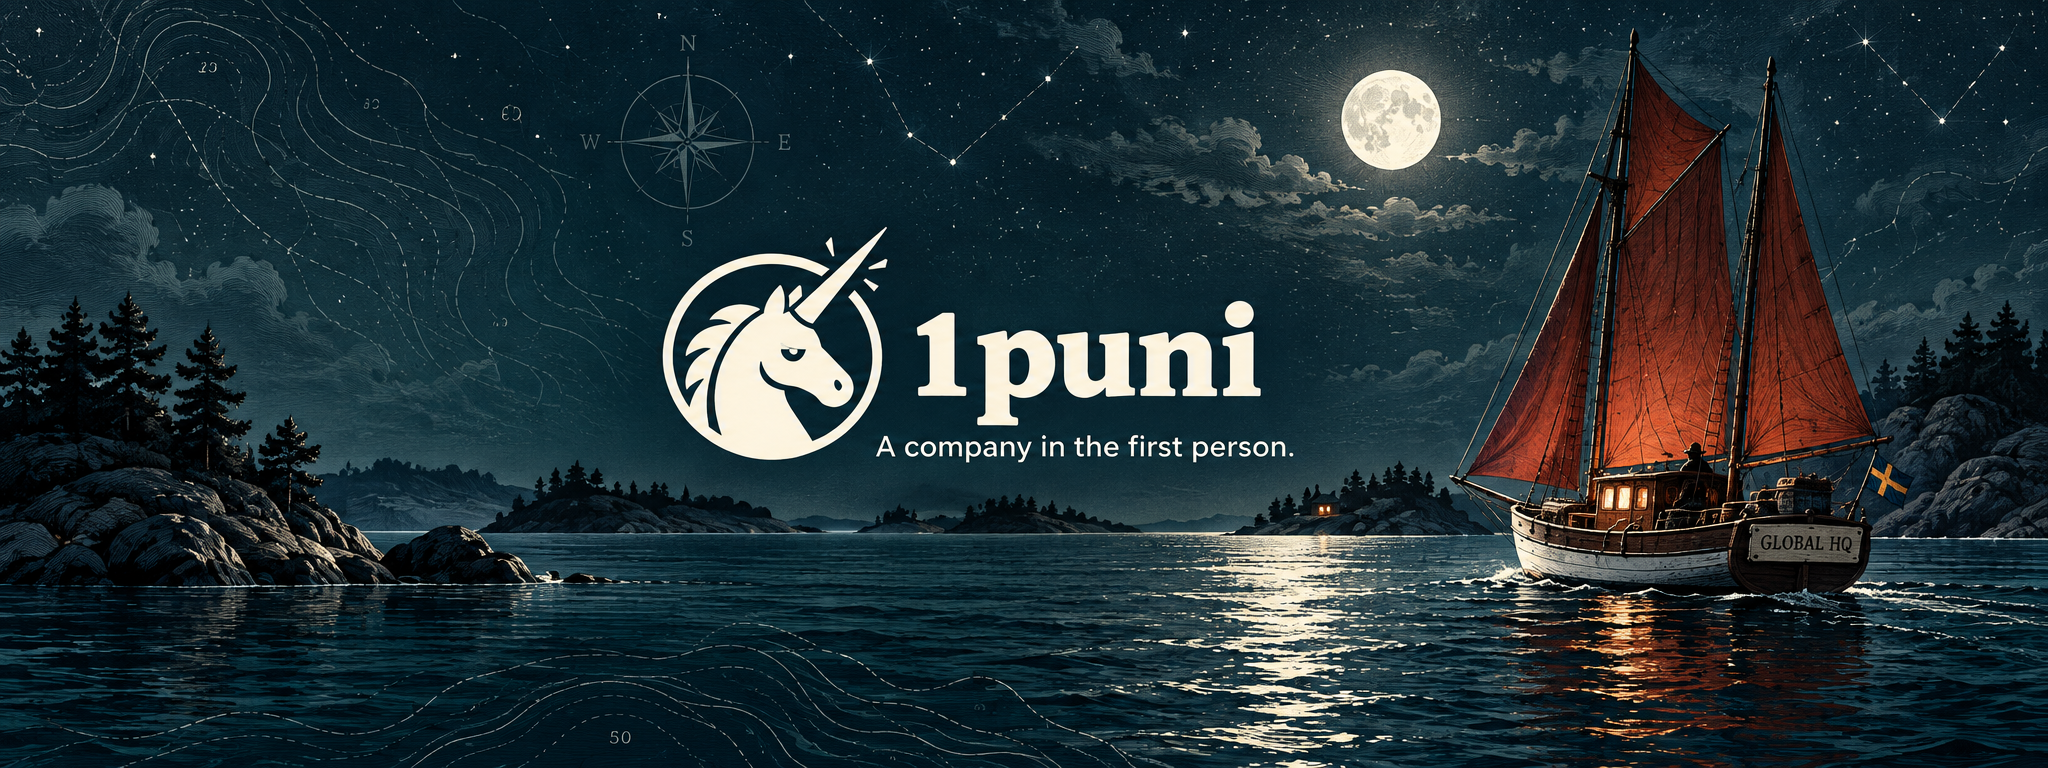
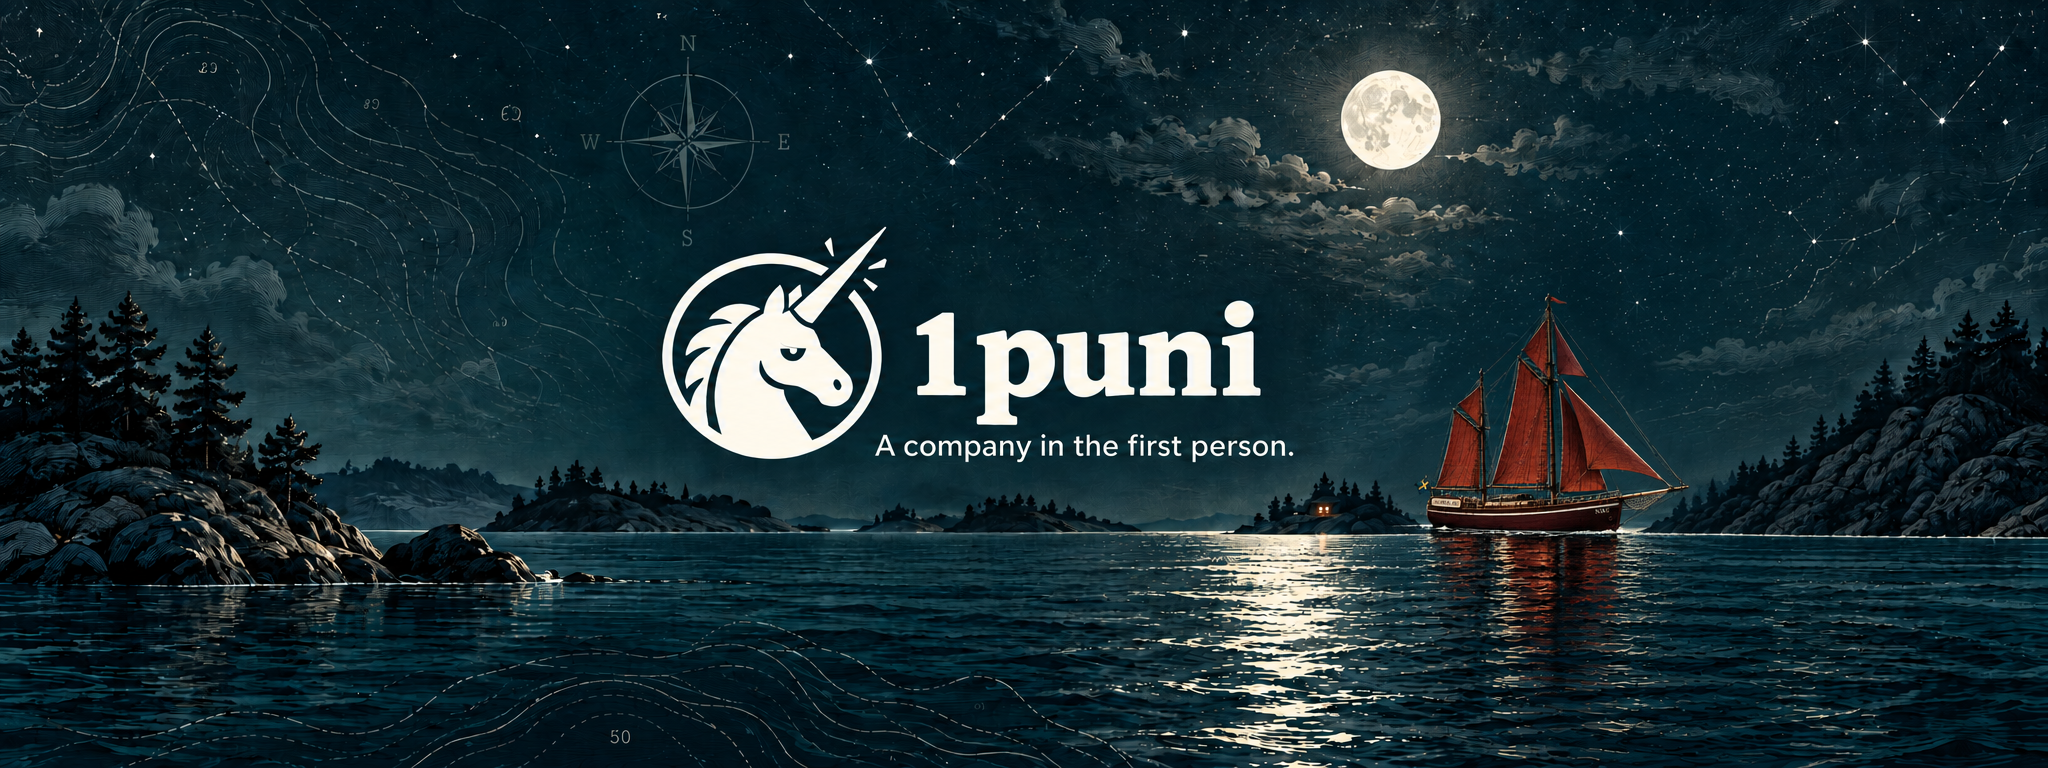
Depict Nike faithfully in the 1puni LinkedIn cover

diff --git a/brand/linkedin-banner-20261002.md b/brand/linkedin-banner-20261002.md
@@ -1,15 +1,7 @@
-# 1puni LinkedIn cover
+# 1puni LinkedIn cover — Nike revision
 
-Created October 2, 2026 with the built-in imagegen tool on V's request:
-“update our banner to something super 1puni too”.
+October 2, 2026. Owner requested that GLOBAL HQ faithfully depict Nike herself. The current image replaces the earlier generic vessel. Both LinkedIn company and personal covers use this artwork.
 
-Brand reference: the existing `1puni.com/assets/logo-horizontal.png` wordmark
-and unicorn. Final source: `linkedin-banner-20261002.png`. The matching company
-avatar is the existing `avatar-yellow.png`.
+Generated with built-in imagegen, using the earlier banner and owner-provided rig plan and sailing/hull photos as visual references. The original reference photos and rig plan remain private in GG’s world; they are not licensed here for republication. The full prompt and version history are retained there at `artifacts/delivery/1puni-profile-refresh-20261002/nike-revision/generation.md`.
 
-## Generation prompt
-
-Use case: ads-marketing. Create a superb finished LinkedIn banner for 1puni, One Person Unicorn, a one-person company building with AI, based aboard a small old two-masted Swedish sailing boat. Input image is a BRAND REFERENCE, not a background: preserve its distinctive lowercase 1puni wordmark and unimpressed unicorn emblem accurately, no generic replacement typeface.
-Asset: ultra-wide panoramic banner, ideally 3840x1280. It must work when center-cropped to a 6:1 company cover AND a 4:1 personal cover: ALL essential content within the middle horizontal strip y=400..880, and x=1000..3450. Leftmost 25% remains atmospheric water, no text, safe for avatar overlay.
-Art direction: sophisticated Nordic editorial illustration with subtle engraved chart linework, textured midnight ink, desaturated Baltic teal, moonlit ivory, a restrained rust-red sail accent. An expansive night archipelago, a beautiful small 1930s two-masted sailing boat with rust-red sails toward the right, just enough playful impossible ambition: a modest sign on its stern 'GLOBAL HQ'. Boat fits the central safe strip. Thin bathymetric contour lines dissolve into water and constellations overhead; crafted, wry, maritime, serious engineering hiding in a tiny headquarters. No robots or stock AI symbols.
-Middle safe strip x=1100..2350: original 1puni emblem and wordmark in moonlit ivory, with ample breathing room. Beneath in small clean sans serif, exact text 'A company in the first person.' Keep these perfectly legible at LinkedIn cover size. No further slogans. No borders, no UI mockup, no gradients-as-decoration, no watermark. Entire frame should be actual art, extending sky above and water below the narrow essential strip. Quiet expansive composition with strongest contrast around the logo.
+Nike’s identifying features: deep burgundy hull with cream stripe, low deck, taller forward mainmast, shorter aft mizzen, full rust-red gaff rig with topsails and headsails, nearly horizontal wooden bowsprit and net. Composition was reduced uniformly to retain the entire silhouette in LinkedIn’s centered 6:1 company crop. Full image: 2048 × 768 PNG. No standalone generation script was used.
